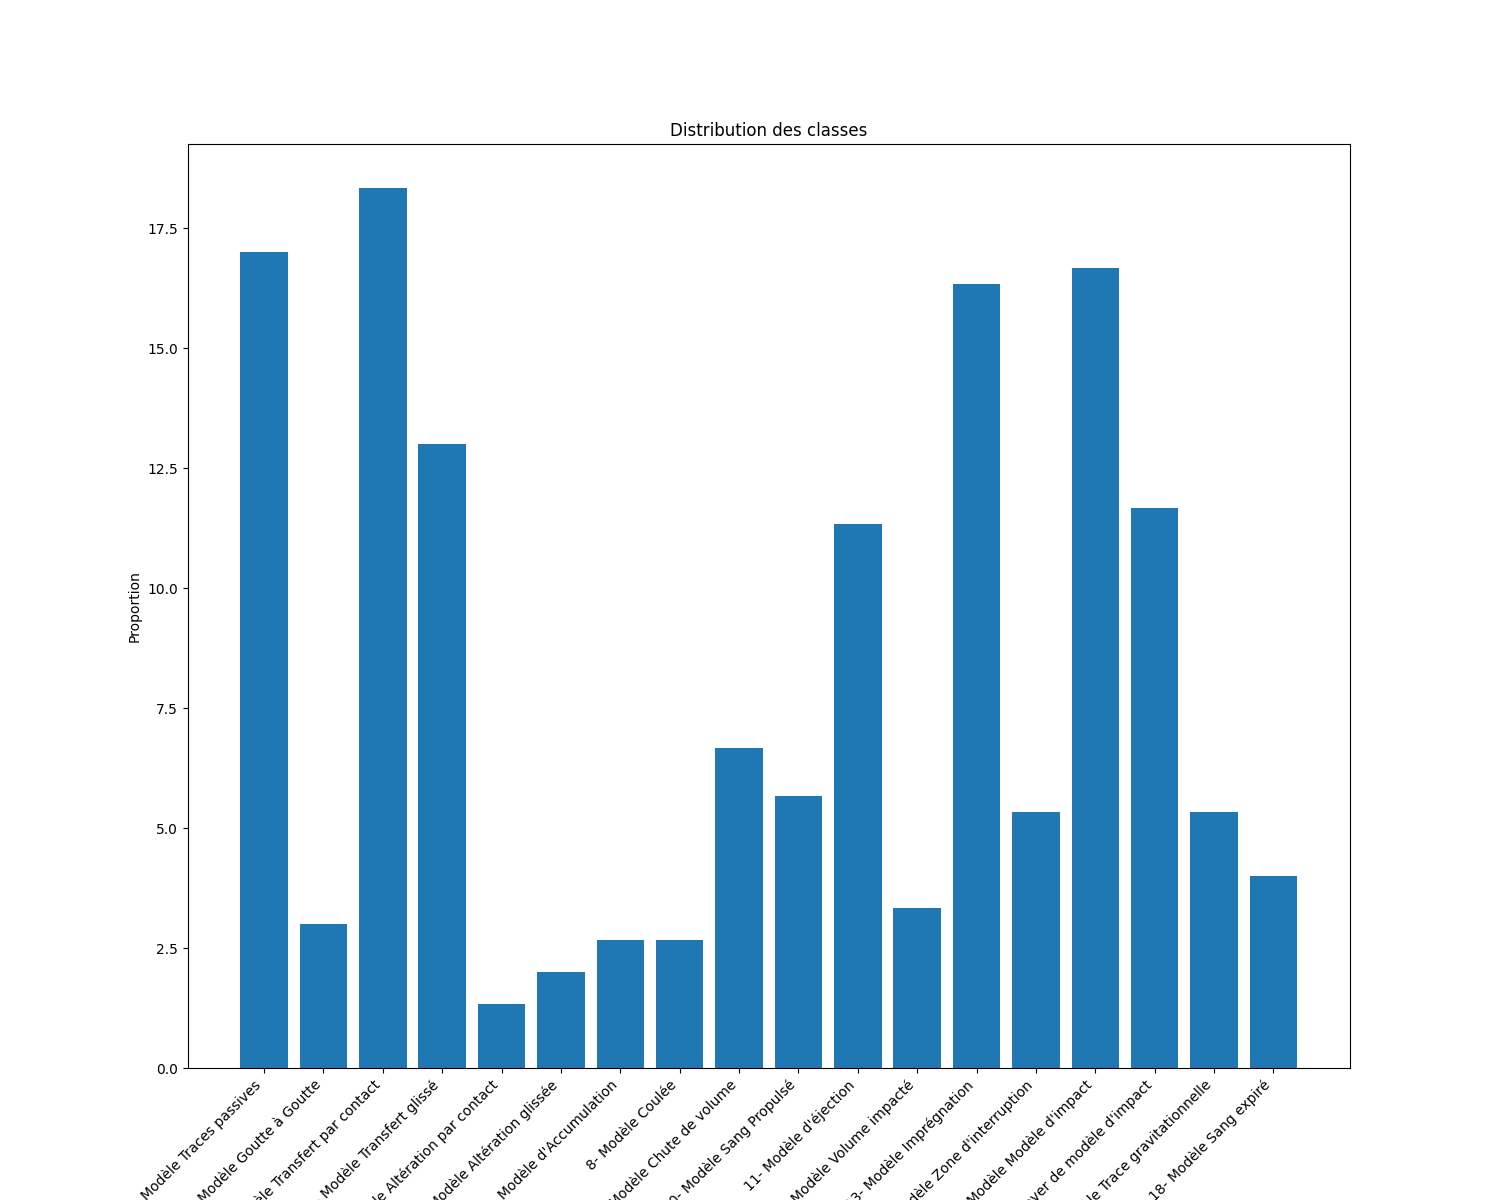
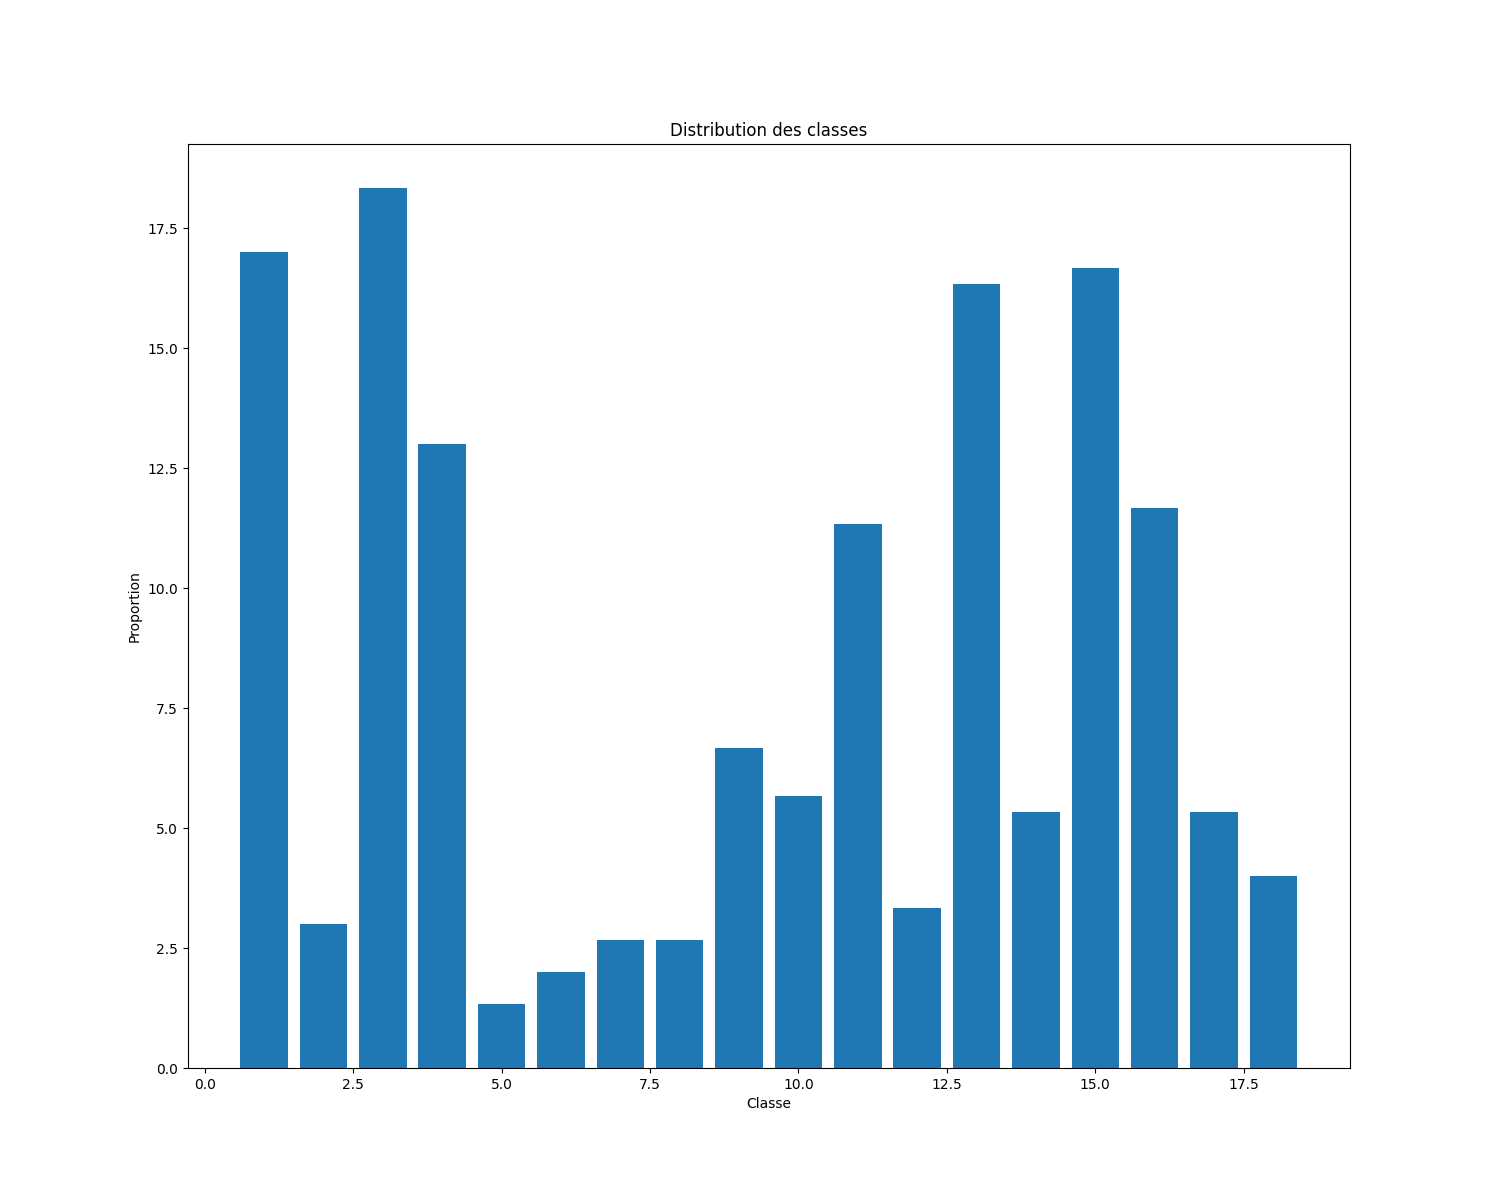
remove label and add legend in distribution

Changed region(s): [[0.092, 0.8942, 0.8587, 1.0]]

diff --git a/data/distribution.py b/data/distribution.py
@@ -64,9 +64,9 @@ def plot_distrib(labels_distribution: list[int],
     plt.xlabel('Classe')
     plt.ylabel('Proportion')
 
-    plt.xticks(classes_index, LABELS, rotation=45, ha='right')
+    # plt.xticks(classes_index, LABELS, rotation=45, ha='right')
 
-    plt.savefig(os.path.join('data', title))
+    plt.savefig(os.path.join('asset', title))
 
 
 def plot_3distribution(distribution1: np.ndarray[float],
@@ -91,9 +91,9 @@ def plot_3distribution(distribution1: np.ndarray[float],
 
     _, ax = plt.subplots(figsize=(12, 6))
 
-    ax.bar(classes_index - bar_width, distribution1, bar_width, label='Distribution 1')
-    ax.bar(classes_index, distribution2, bar_width, label='Distribution 2')
-    ax.bar(classes_index + bar_width, distribution3, bar_width, label='Distribution 3')
+    ax.bar(classes_index - bar_width, distribution1, bar_width, label='train distribution')
+    ax.bar(classes_index, distribution2, bar_width, label='val distribution')
+    ax.bar(classes_index + bar_width, distribution3, bar_width, label='test distribution')
 
     ax.set_title('Comparaison de trois distributions')
     ax.set_xlabel('Classe')
@@ -103,8 +103,8 @@ def plot_3distribution(distribution1: np.ndarray[float],
     ax.legend()
 
     plt.tight_layout()
-    plt.xticks(classes_index, LABELS, rotation=45, ha='right')
-    plt.savefig(os.path.join('data', title))
+    # plt.xticks(classes_index, LABELS, rotation=45, ha='right')
+    plt.savefig(os.path.join('asset', title))
 
 
 if __name__ == '__main__':
